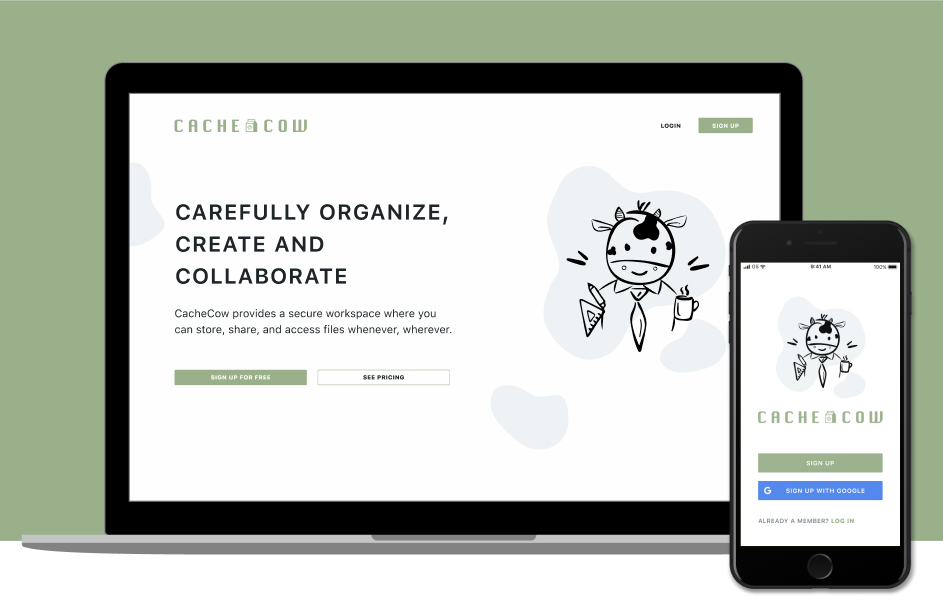
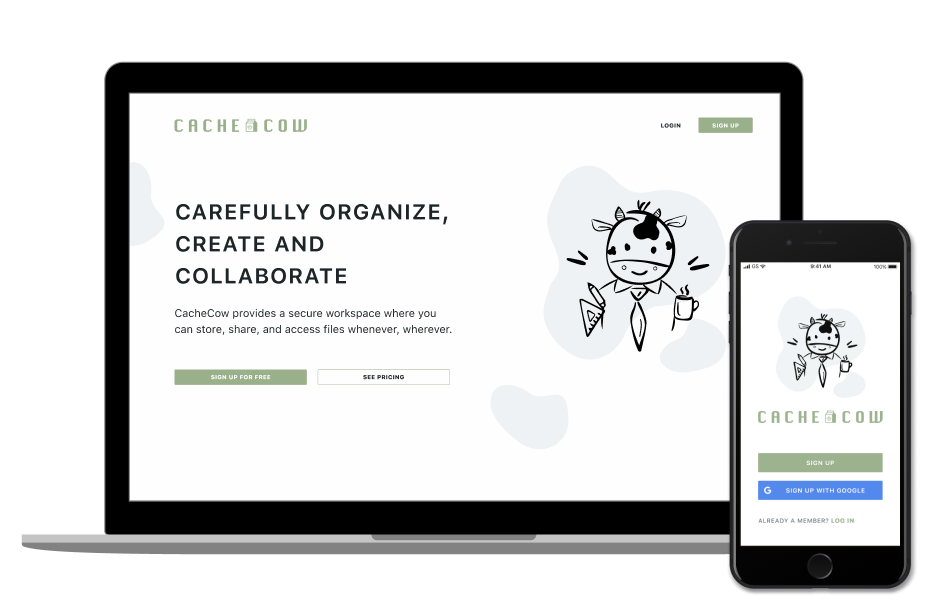
updated images

diff --git a/project.html b/project.html
@@ -49,7 +49,7 @@
 <figure class="project-hero-image">
   <!--CHANGE IMAGES DEPENDING ON SCREEN SIZE-->
       <img class="content-image-mobile" src="images/home/project-mobile-hero.png" alt="Cache Cow Project">
-      <img class="content-image-hero" src="images/home/projectTile1.png" alt="Cache Cow Project">
+      <img class="content-image-hero" src="images/home/project-desktop-hero.png" alt="Cache Cow Project">
 </figure>
 </div>
 </div>

diff --git a/index.html b/index.html
@@ -69,7 +69,7 @@ and I’m a Product Designer based in Portland, OR.</h5>
 <main>
   <a id="work">
   <div class="container projects-container">
-  <a href="/project.html">
+  <a href="https://priscillank.github.io/myPortfolio/project.html">
     <div class="content-thumbnail">
 
 <div class="content-overlay"></div>
